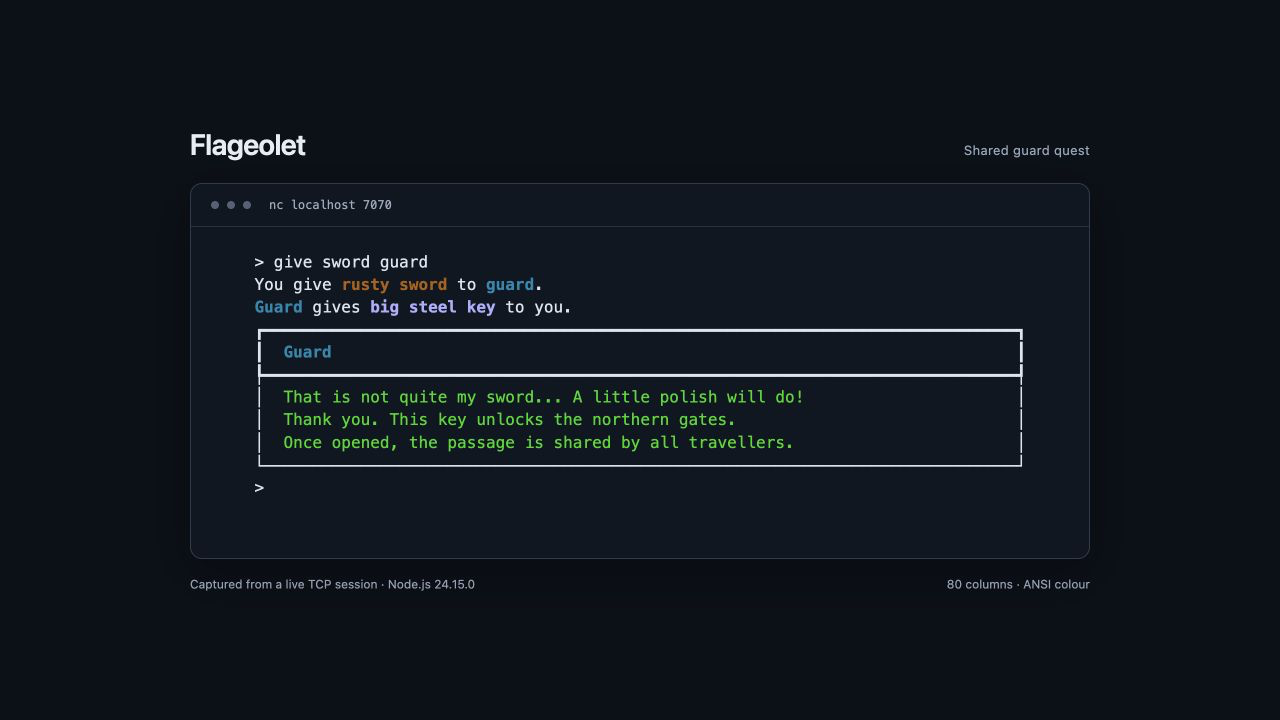
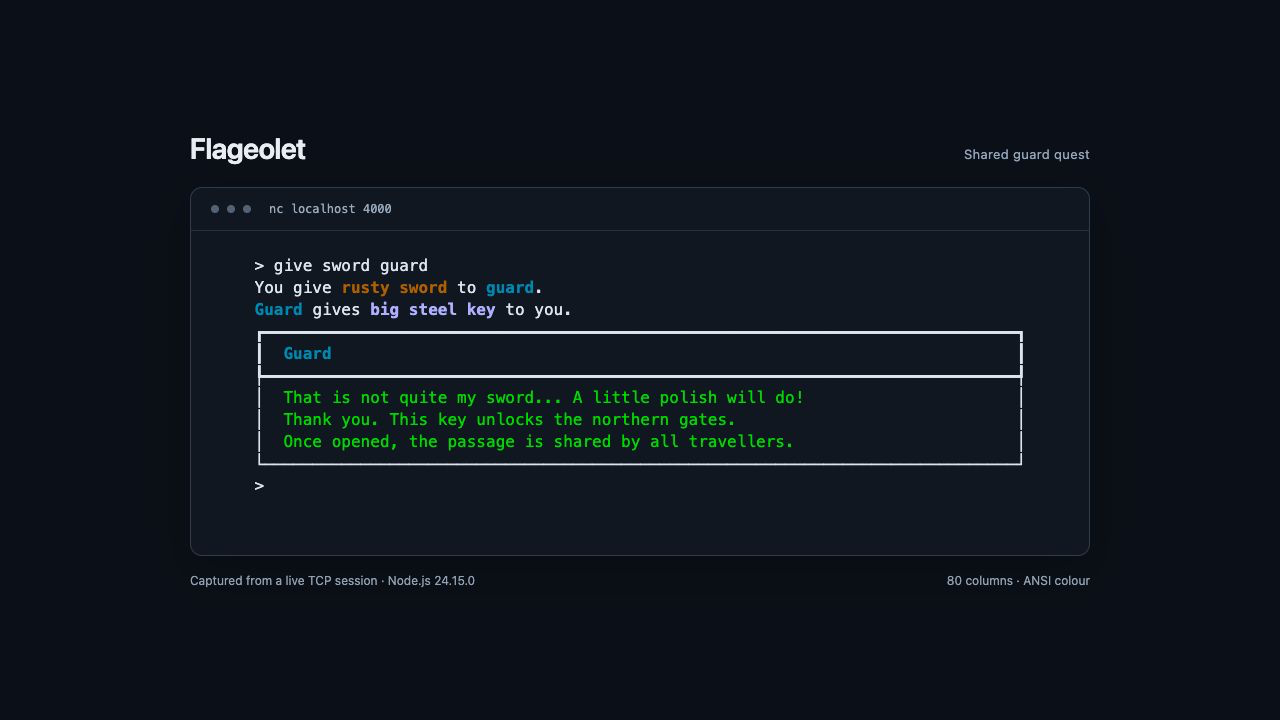
Use port 4000 for local and hosted demo connections

diff --git a/index.js b/index.js
@@ -41,7 +41,7 @@ const server = net.createServer({allowHalfOpen: true}, (connection) => {
     message: "Character Entered Game",
     data: {character: user.character},
   });
-}).listen(Number(process.env.PORT || 7000), () => {
+}).listen(Number(process.env.PORT || 4000), () => {
   console.log(`Flageolet listening on port ${server.address().port}.`);
 });
 

diff --git a/deploy/test_deploy.py b/deploy/test_deploy.py
@@ -84,12 +84,12 @@ class DeploymentTests(unittest.TestCase):
         client.recv.side_effect = [welcome[:1], welcome[1:7], welcome[7:], b"Language switched to English.\n", b"Exits: north.\n> "]
         with patch.object(actions.socket, "create_connection") as connect:
             connect.return_value.__enter__.return_value = client
-            actions.probe("localhost", 7000)
+            actions.probe("localhost", 4000)
             self.assertEqual(client.sendall.call_args_list[0].args, (b"language en\nlook\n",))
             self.assertEqual(client.sendall.call_args_list[1].args, (b"quit\n",))
             client.recv.side_effect = [b"HTTP/1.1 200 OK\r\n", b""]
             with self.assertRaisesRegex(RuntimeError, "language and look"):
-                actions.probe("localhost", 7000)
+                actions.probe("localhost", 4000)
 
 
 if __name__ == "__main__":

diff --git a/deploy/from-actions.py b/deploy/from-actions.py
@@ -61,7 +61,7 @@ def main():
                 target, f"deploy {release} {digest}"
             ], stdin=source, check=True, timeout=180)
     host = os.environ["DEPLOY_PUBLIC_HOST"]
-    port = int(os.environ.get("DEPLOY_PUBLIC_PORT", "7000"))
+    port = int(os.environ.get("DEPLOY_PUBLIC_PORT", "4000"))
     for attempt in range(5):
         try:
             probe(host, port)

diff --git a/README.md b/README.md
@@ -22,8 +22,10 @@ The JavaScript/CommonJS code uses Node's TCP and filesystem APIs, with no runtim
 ## Play the demo
 
 ```sh
-nc flageolet.yernende.ru 7000
+nc flashalet.irln.ru 4000
 ```
+
+The requested hostname still needs to point to the demo server. Until its DNS is updated, connect with `nc 88.218.62.136 4000`.
 
 Deployments restart the server and disconnect players. Each release resets the world. The public demo includes the world editor, available to every connected player.
 
@@ -34,13 +36,13 @@ Tested with **Node.js 24.15.0** and macOS `nc`. Use a UTF-8 terminal at least **
 ```sh
 git clone https://github.com/yernende/flageolet.git
 cd flageolet
-PORT=7070 npm start
+npm start
 ```
 
 In another terminal:
 
 ```sh
-nc localhost 7070
+nc localhost 4000
 ```
 
 Sessions start in Russian. Switch with `language en`. The world has **35 connected rooms** across a temple, forest, ravine, bridge, and river. At the altar, try `talk acolyte`, then `2` for directions, `2` to return, and `3` to leave. An empty line repeats a dialogue menu.
@@ -74,7 +76,7 @@ Connect twice to explore together.
 | `say Hello!`, `talk` | Chat or start a conversation |
 | `recall`, `commands`, `quit` | Return to the altar, list commands, or disconnect |
 
-Stop with `Ctrl+C`. The default port is `7000`; `7070` avoids a macOS port conflict. Run checks with `npm test`.
+Stop with `Ctrl+C`. The default port is `4000`; set `PORT` to override it. Run checks with `npm test`.
 
 GitHub Actions runs tests for pull requests and pushes. Successful `master` releases deploy automatically when deployment is enabled; operational setup is described in [deployment notes](docs/deployment.md).
 

diff --git a/docs/deployment.md b/docs/deployment.md
@@ -1,6 +1,6 @@
 # Demo deployment
 
-The public game uses raw TCP: `nc flageolet.yernende.ru 7000`. It does not serve HTTP or require an HTTPS certificate. Sessions start in Russian; enter `language en` to switch.
+The public game uses raw TCP: `nc flashalet.irln.ru 4000`. The requested hostname must point to `88.218.62.136`; until its DNS is updated, use `nc 88.218.62.136 4000`. It does not serve HTTP or require an HTTPS certificate. Sessions start in Russian; enter `language en` to switch.
 
 `.github/workflows/deploy.yml` runs the engine and deployment tests on pull requests, pushes to `master`, and manual workflow runs. A successful run packages the dependency-free Node.js server and starting world as a checked artifact. Only `master` can deploy, and repository variable `DEPLOY_ENABLED` must be `true`. Forks have deployment disabled by default.
 
